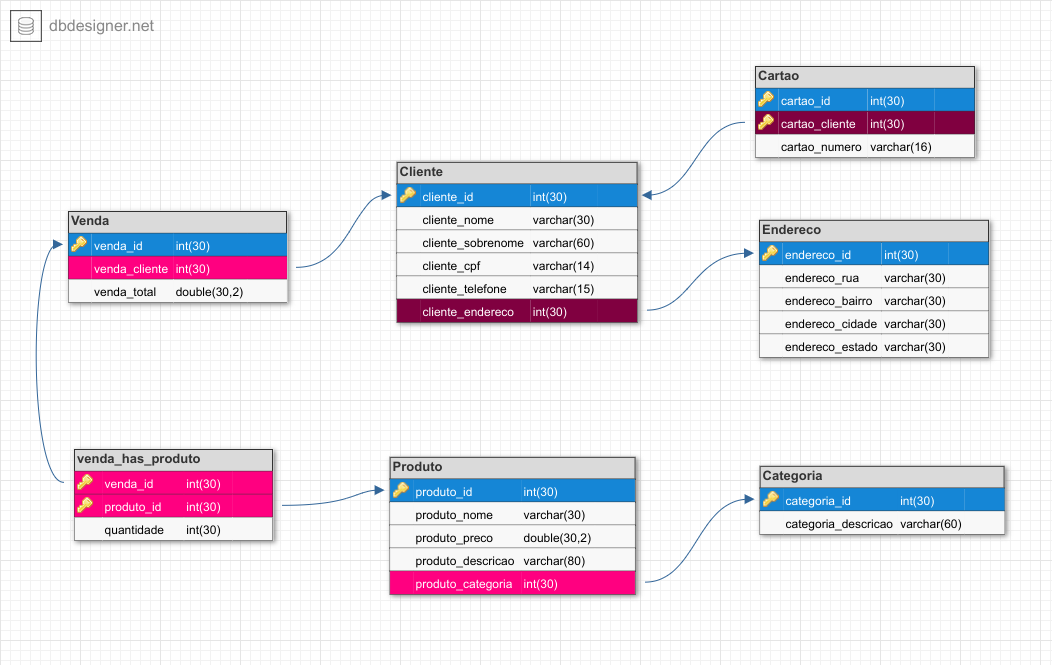
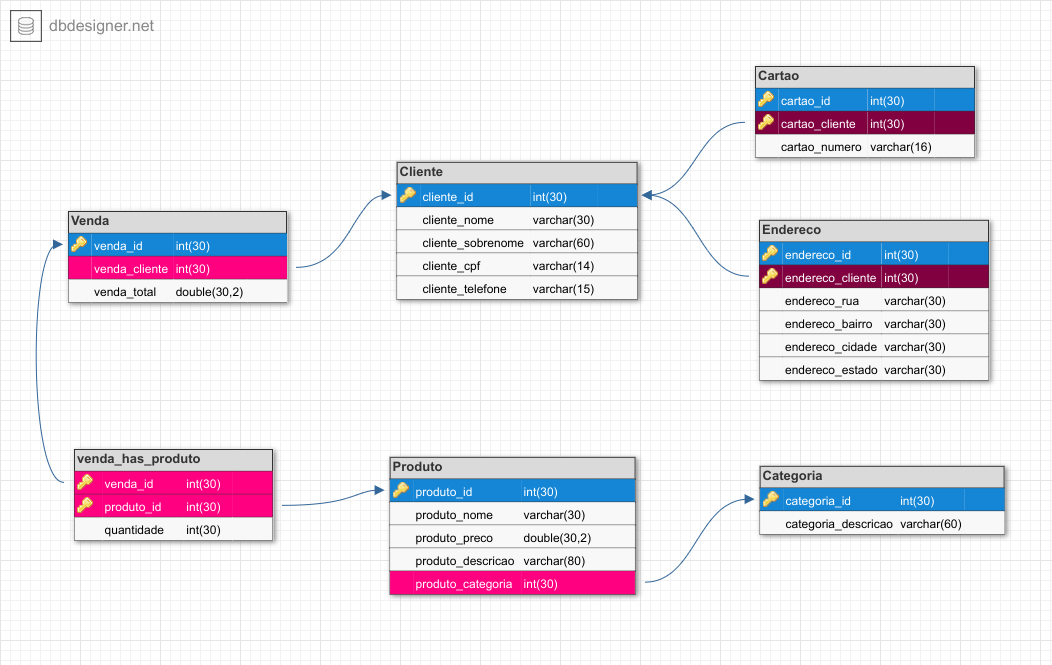
fix: database relaction ENDERECO CLIENTE

Changed region(s): [[0.6692, 0.3609, 0.943, 0.6015], [0.365, 0.4511, 0.6388, 0.5113]]

diff --git a/src/main/java/com/wassabi/App.java b/src/main/java/com/wassabi/App.java
@@ -1,12 +1,7 @@
 package com.wassabi;
 
-import javax.persistence.EntityManager;
 import javax.persistence.EntityManagerFactory;
-import javax.persistence.EntityTransaction;
 import javax.persistence.Persistence;
-
-import com.wassabi.model.Cliente;
-import com.wassabi.model.Endereco;
 
 /*
  * Está e classe principal que sera chamada para iniciar a aplicação
